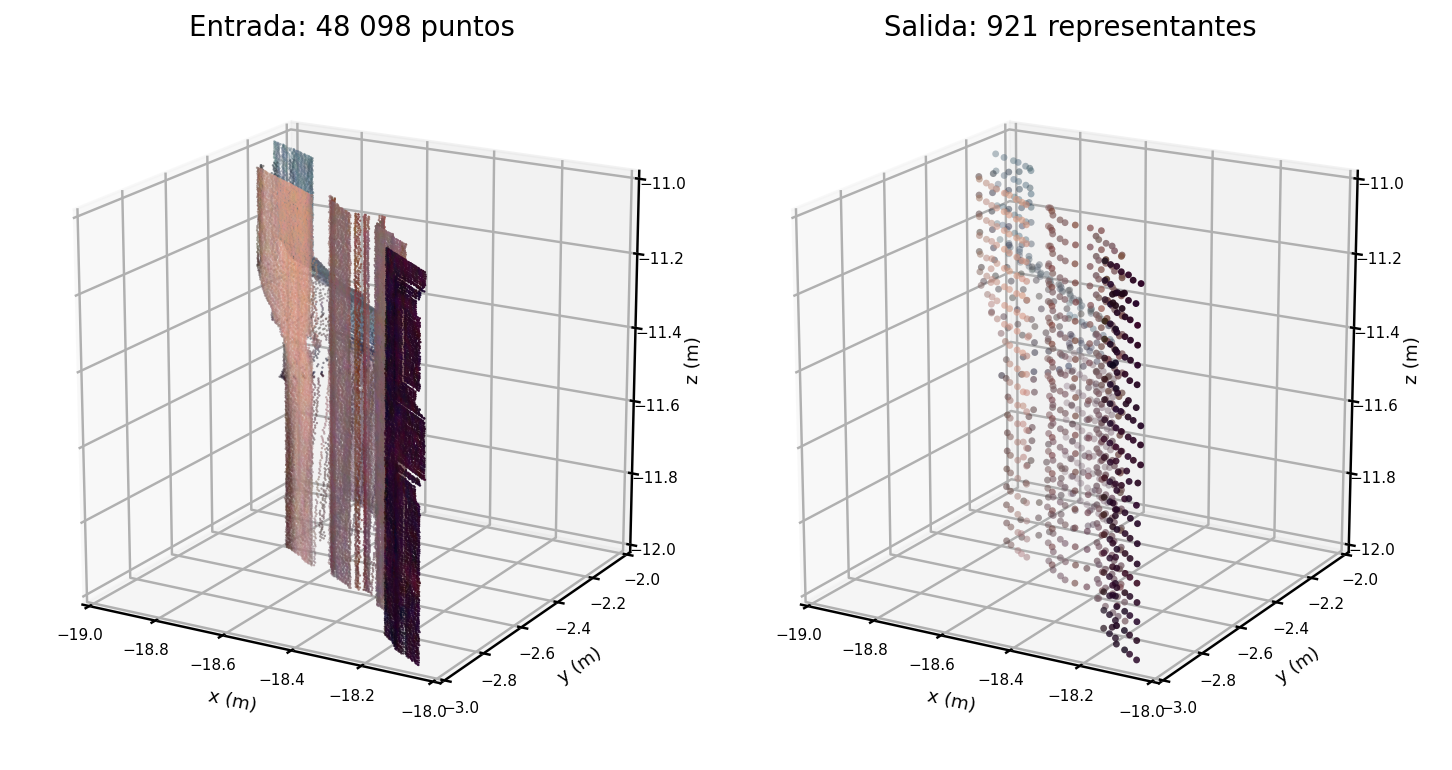
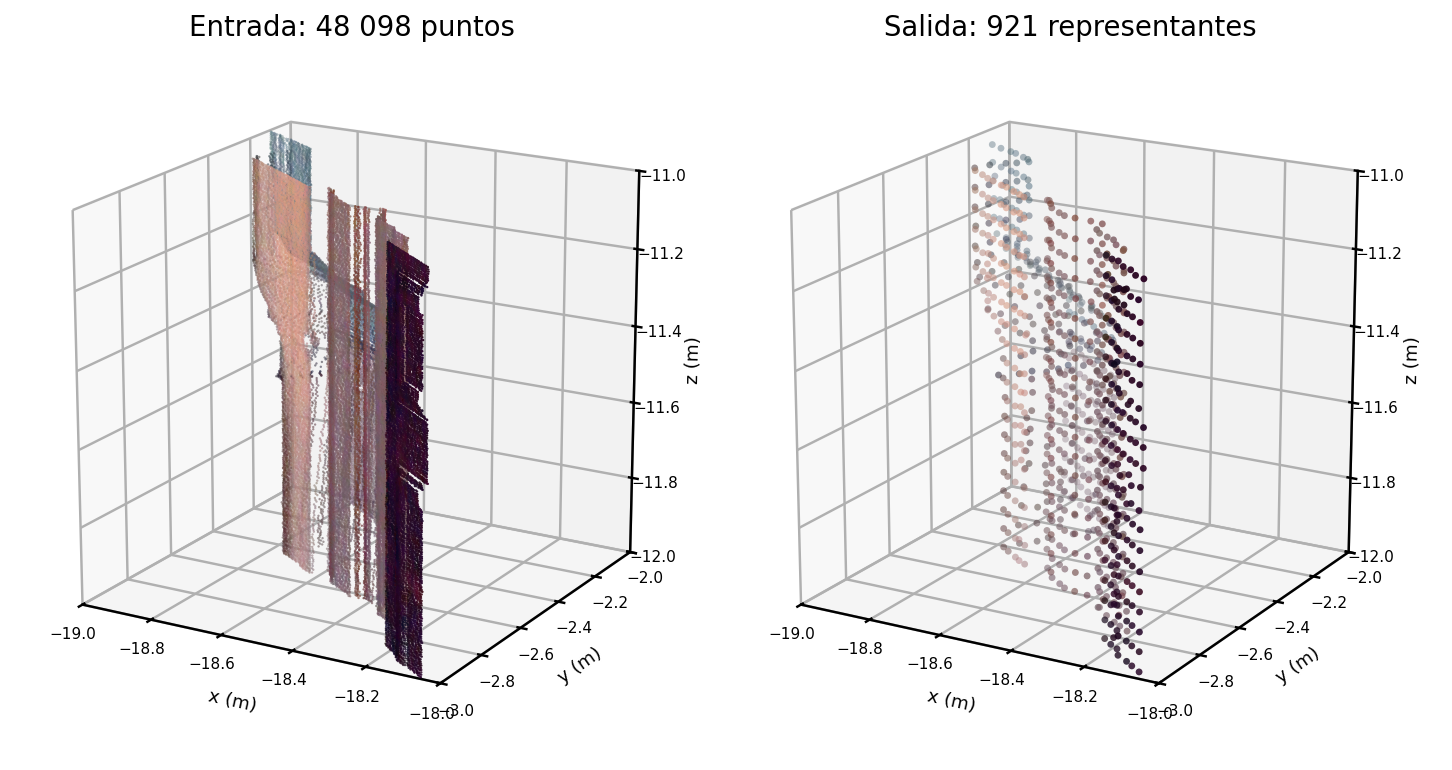
cambio de puntos
cambio de puntos

diff --git a/LATEX/asesoria5/secciones/capitulo3.tex b/LATEX/asesoria5/secciones/capitulo3.tex
@@ -73,9 +73,11 @@ en la Tabla~\ref{tab:hardware}. Cada paso pide al gestor de colas solo lo que
 necesita. El preprocesamiento usa 16 núcleos y 64\,GB de memoria, sin GPU. La
 extracción de descriptores con Sonata usa una GPU RTX~A6000, 8 núcleos y
 64\,GB. El entrenamiento de HyperNCD usa una GPU, 8 núcleos y 32\,GB. La prueba
-preliminar de la Unidad~1 se ejecutó en un equipo local.
-% PENDIENTE (autores): procesador, memoria, sistema operativo y GPU del equipo
-% local, y versiones de Python, laspy, NumPy y Open3D con que se ejecuto.
+preliminar de la Unidad~1 se ejecutó en una laptop con procesador AMD Ryzen~5
+8645HS de 6 núcleos y 12 hilos, 16\,GB de memoria y Windows~11 Home
+(versión 10.0.26200). Su GPU, una NVIDIA GeForce RTX~3050 de 6\,GB, no interviene
+en el preprocesamiento. El programa corrió con Python~3.12.7, \texttt{laspy}~2.7.0,
+NumPy~2.3.5 y Open3D~0.20.0.
 
 \paragraph*{Repositorio}
 Todo el código está en el repositorio del
@@ -175,9 +177,8 @@ $S$ que entra a los modelos de la Unidad~2. Corresponde al Módulo~1
 repositorio. Se describe tal como se ejecutó en la prueba preliminar, sobre el
 escaneo \texttt{PL7\_SCN0001.las} de la Catedral de Lima, en el equipo local de
 la Sección~\ref{sec:hardware-repo}. Ese escaneo es una parte pequeña del
-levantamiento, que en total ocupa 28\,GB.
-% PENDIENTE (autores): numero de archivos LAS, tamano total y numero total de
-% puntos del levantamiento completo.
+levantamiento, que suma 23 archivos LAS, 20{,}05\,GB y 589\,708\,290 puntos.
+PL7 aporta el 1{,}46\,\% de esos puntos.
 
 \subsection{Procedimiento}
 \label{sec:u1-procedimiento}
@@ -247,15 +248,24 @@ Elaboración propia.}
 \label{sec:u1-reproducibilidad}
 
 El programa no tiene pasos aleatorios, de modo que la misma entrada produce la
-misma salida. El tamaño de vóxel, el número de vecinos y el umbral del SOR son
-opciones del programa; la prueba usó sus valores por defecto, 5\,cm, 20 y 2.
-Para repetirla basta ejecutar
-\begin{center}
-{\small\texttt{python preprocesar.py --input PL7\_SCN0001.las}\\
-\texttt{\hspace{2em}--output PL7\_SCN0001\_preprocesado}}
-\end{center}
-y comparar los conteos del archivo de metadatos con los de la
-Tabla~\ref{tab:datos}. La prueba tardó 14{,}4 segundos.
+misma salida. La prueba se ejecutó con la orden siguiente, con un vóxel de
+5\,cm, 20 vecinos y un umbral de 2, que son los valores por defecto del programa.
+\begin{lstlisting}[basicstyle=\small\ttfamily,frame=single,columns=fullflexible,
+                   xleftmargin=1em,xrightmargin=1em]
+python preprocesar.py --input PL7_SCN0001.las \
+       --output PL7_SCN0001_preprocesado \
+       --voxel 0.05 --q 20 --lam 2
+\end{lstlisting}
+Tardó 14{,}4 segundos en el equipo local de la Sección~\ref{sec:hardware-repo}.
+Una repetición se comprueba comparando los conteos del archivo de metadatos,
+\texttt{n\_crudo}, \texttt{n\_sor} y \texttt{n\_voxel}, con los de la
+Tabla~\ref{tab:datos}. Deben coincidir exactamente.
+
+El mismo programa preprocesó después el levantamiento completo en el clúster
+Khipu, con los mismos parámetros. Procesó los 23 archivos LAS, que pasaron de
+589\,708\,290 puntos a 17\,807\,859 representantes. La suma de los tiempos por
+archivo fue de 1\,079 segundos, unos 18 minutos. Los conteos de PL7 en esa
+corrida coinciden con los de la prueba local.
 
 % =====================================================================
 \section{Unidad 2: Extracción de Descriptores y Fusión}
